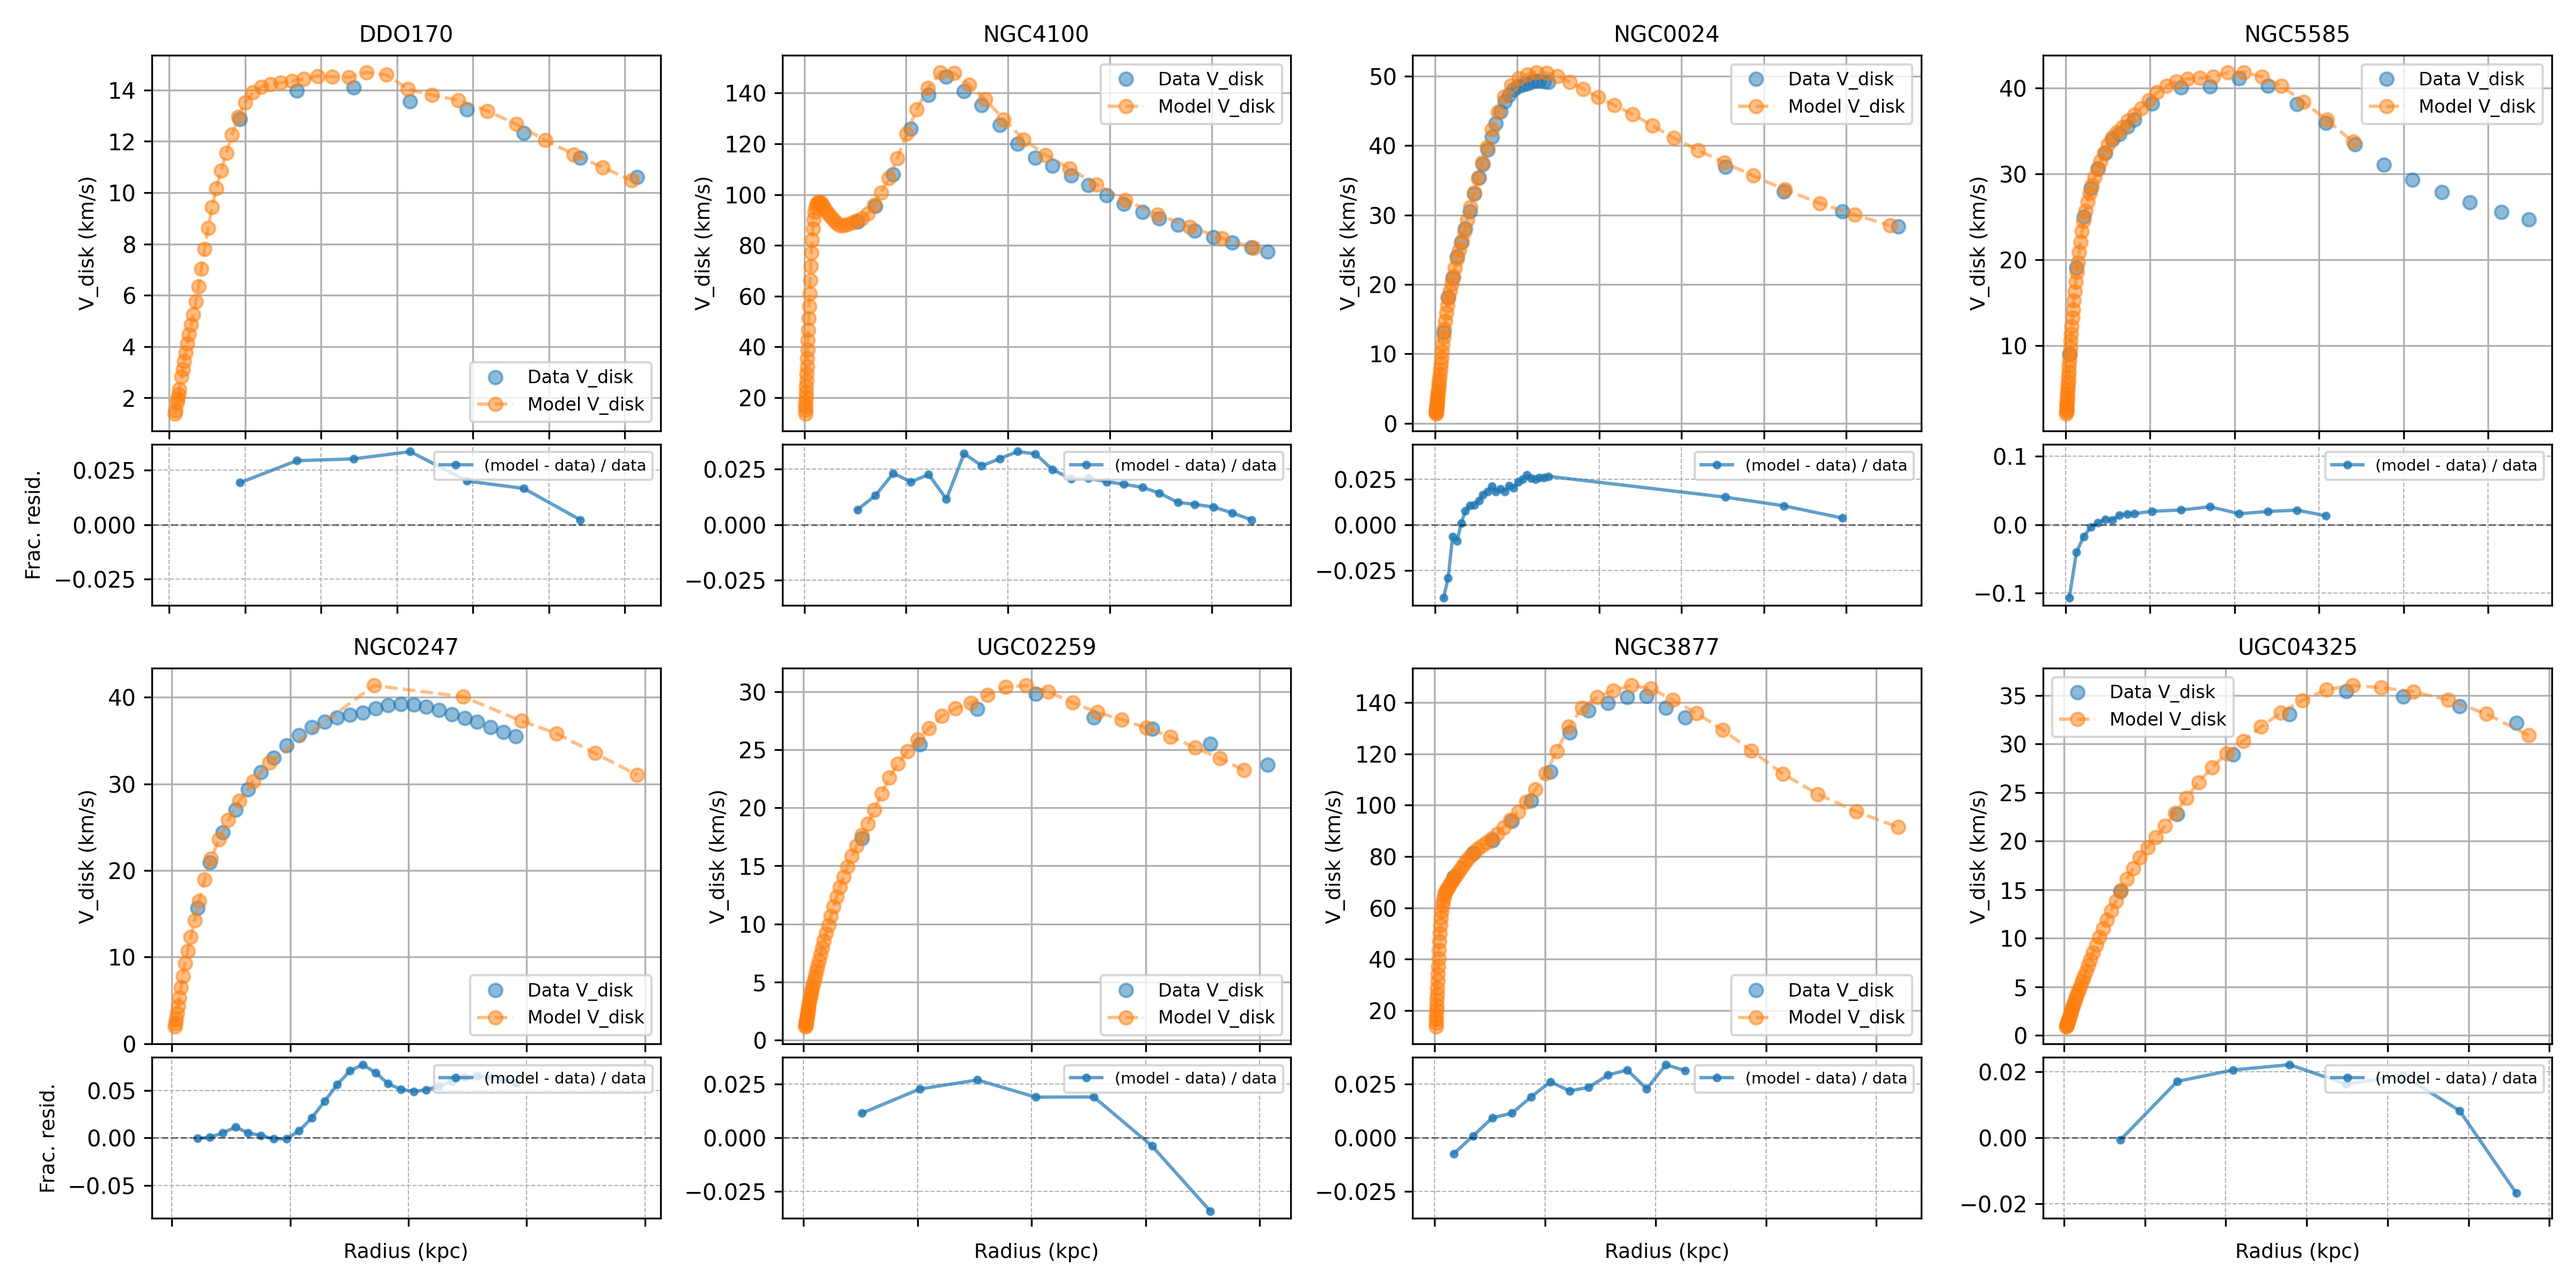
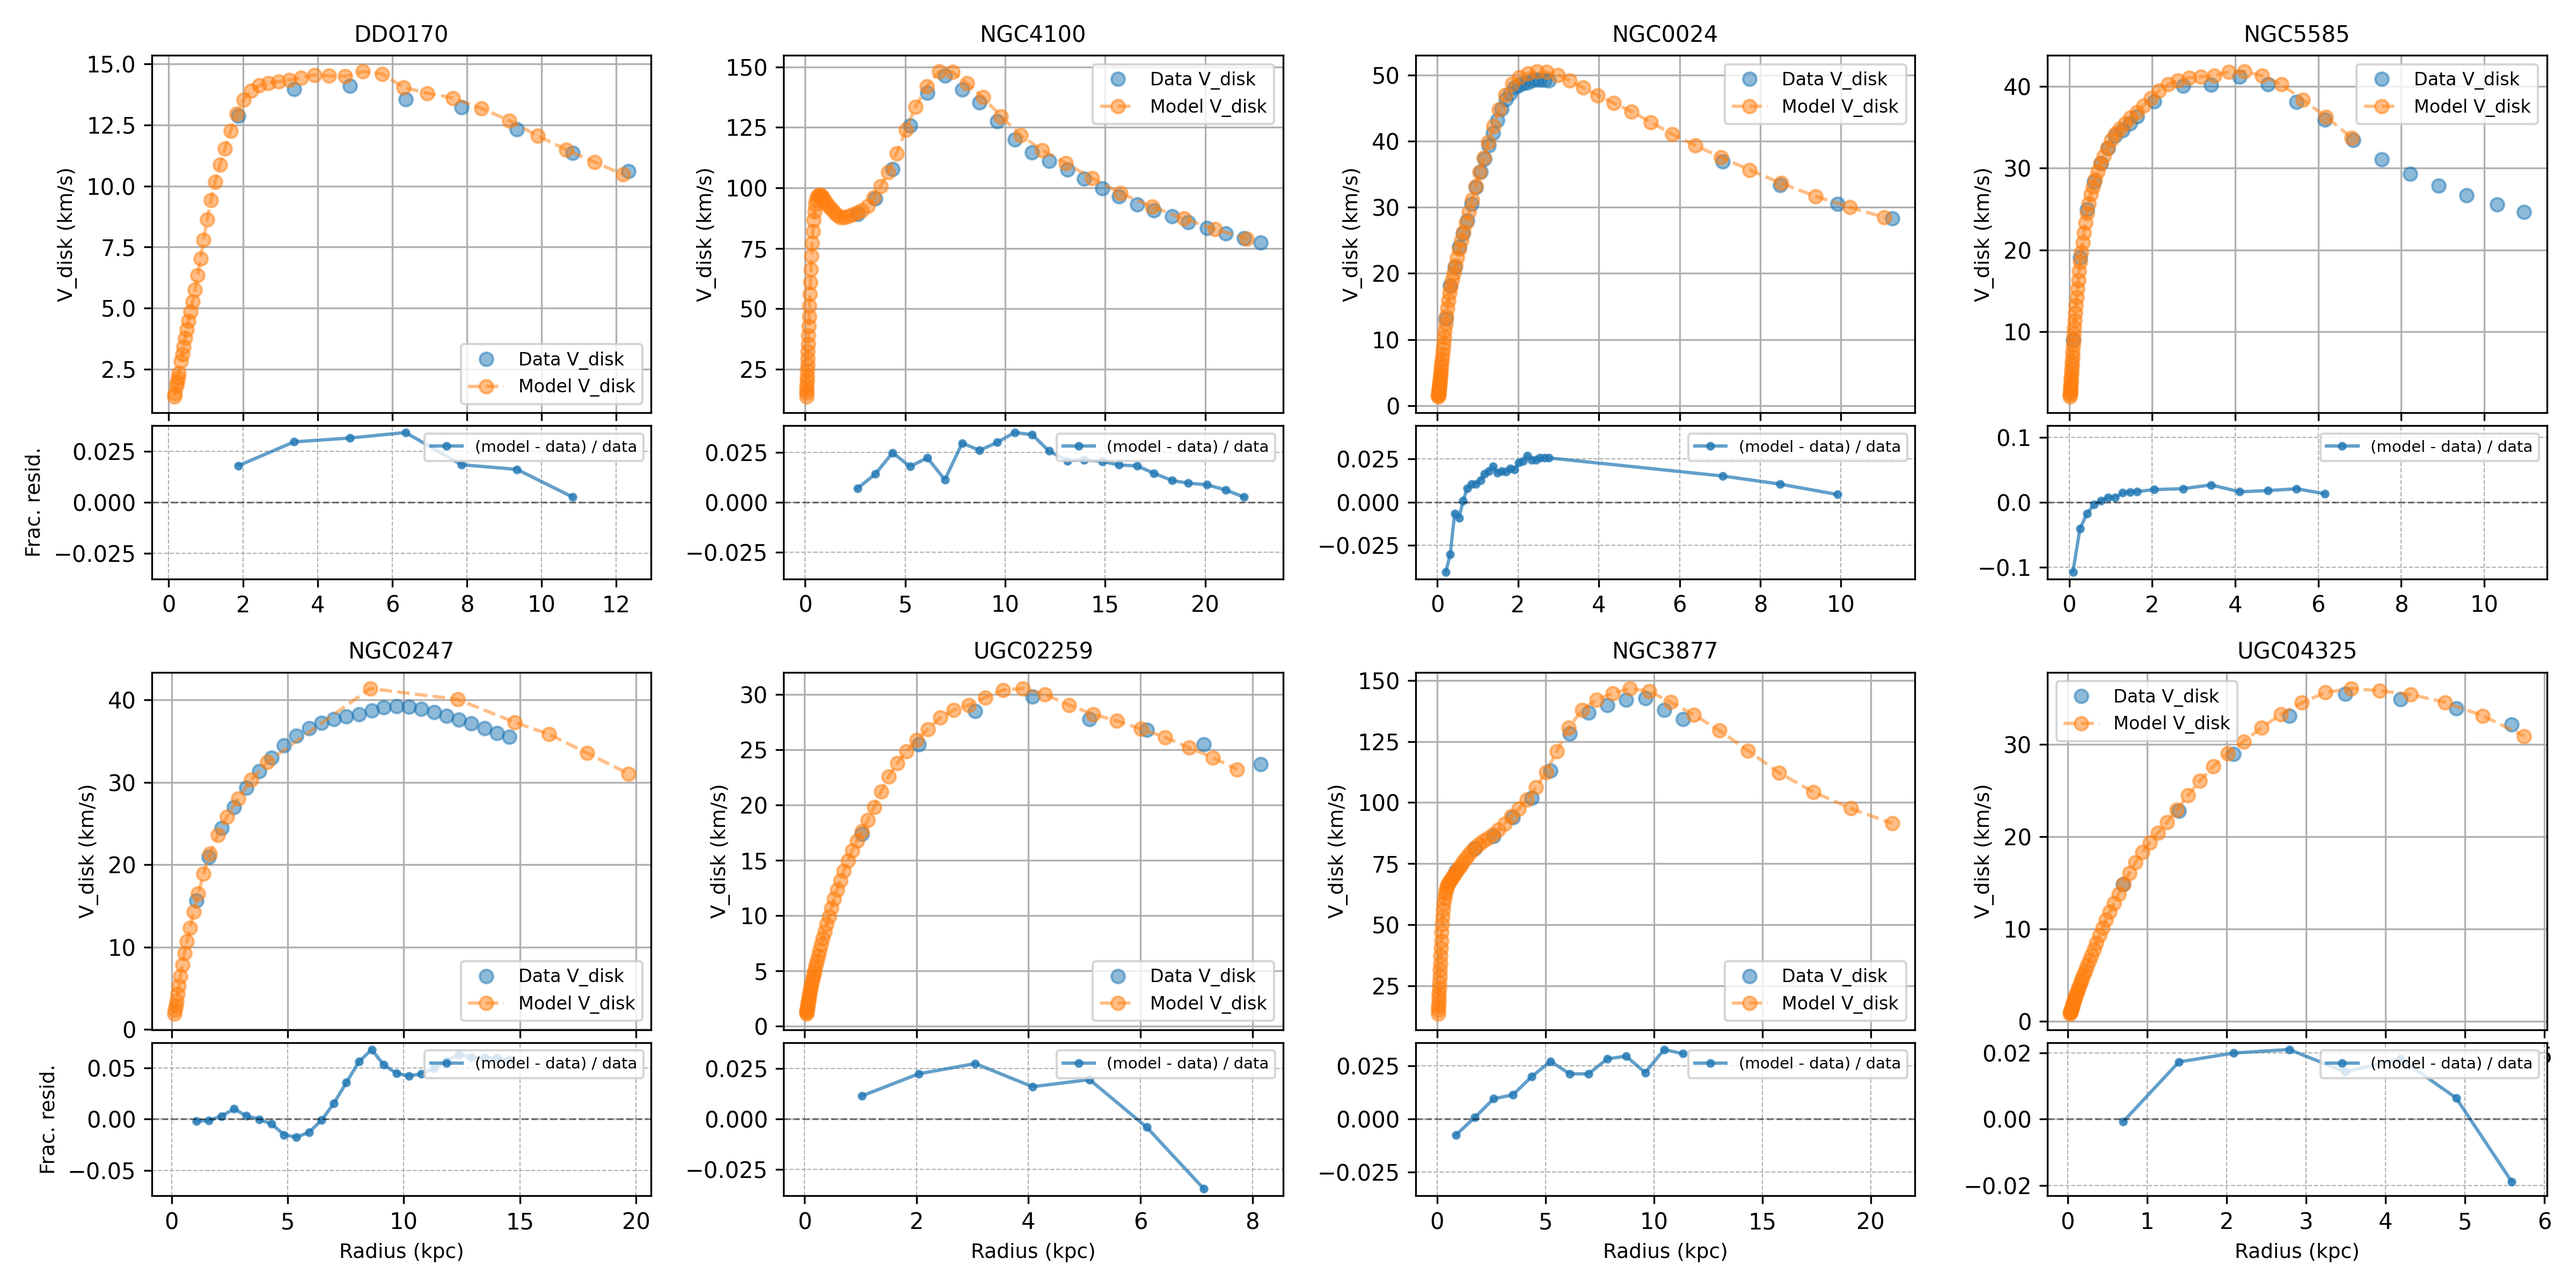
Added radii to x-axes

diff --git a/testing_varML.py b/testing_varML.py
@@ -14,8 +14,6 @@ from utils_analysis.get_SPARC import get_SPARC_data
 from matplotlib import pyplot as plt
 from matplotlib.gridspec import GridSpecFromSubplotSpec
 
-from scipy.interpolate import pchip_interpolate
-
 
 use_dens = True
 fit_const = False
@@ -95,7 +93,7 @@ def fit_multiplicative_constant(rad_model, SB_model, r_data, SB_data):
     sd_mask = sd[mask]
 
     # Interpolate model onto data radii
-    sm_interp = pchip_interpolate(rm, sm, rd_mask)
+    sm_interp = jnp.interp(rd_mask, rm, sm)
 
     # Remove zero model points
     nonzero = sm_interp != 0
@@ -191,7 +189,7 @@ if __name__ == "__main__":
                 x_model = _np.asarray(adjusted_line.get_xdata())
                 y_model = _np.asarray(adjusted_line.get_ydata())
 
-                sm_interp = pchip_interpolate(x_model, y_model, x_data)
+                sm_interp = jnp.interp(x_data, x_model, y_model)
                 nonzero = y_data != 0
                 max_allowed = min(_np.max(x_data), _np.max(x_model))
                 in_range = (x_data >= _np.min(x_model)) & (x_data <= max_allowed)
@@ -199,7 +197,7 @@ if __name__ == "__main__":
 
                 frac = _np.full_like(x_data, _np.nan, dtype=float)
                 if valid.any():
-                    sm_interp_valid = pchip_interpolate(x_model, y_model, x_data[valid])
+                    sm_interp_valid = jnp.interp(x_data[valid], x_model, y_model)
                     frac[valid] = (sm_interp_valid - y_data[valid]) / y_data[valid]
 
                 ax_res.plot(x_data, frac, c="tab:blue", marker="o", ms=3, label="(model - data) / data", alpha=0.7)
@@ -220,7 +218,7 @@ if __name__ == "__main__":
                 ax_res.set_xlabel("Radius (kpc)", fontsize=9)
             if i == 0 or i == 4:
                 ax_res.set_ylabel("Frac. resid.", fontsize=9)
-            ax_main.xaxis.set_ticklabels([])
+            # ax_main.xaxis.set_ticklabels([])
 
         except Exception as e:
             axes0[i].text(0.5, 0.5, f"Error: {gal_i}\n{e}", ha='center', va='center', wrap=True)
@@ -289,7 +287,7 @@ if __name__ == "__main__":
                 y_model = _np.asarray(adjusted_line.get_ydata())
 
                 # interpolate adjusted model onto data radii
-                sm_interp = pchip_interpolate(x_model, y_model, x_data)
+                sm_interp = jnp.interp(x_data, x_model, y_model)
 
                 # fractional residuals (model - data) / data, avoid divide-by-zero
                 nonzero = y_data != 0
@@ -301,7 +299,7 @@ if __name__ == "__main__":
 
                 frac = _np.full_like(x_data, _np.nan, dtype=float)
                 if valid.any():
-                    sm_interp_valid = pchip_interpolate(x_model, y_model, x_data[valid])
+                    sm_interp_valid = jnp.interp(x_data[valid], x_model, y_model)
                     frac[valid] = (sm_interp_valid - y_data[valid]) / y_data[valid]
 
                 ax_res.plot(x_data, frac, c="tab:blue", marker="o", ms=3, label="(model - data) / data", alpha=0.7)
@@ -323,7 +321,7 @@ if __name__ == "__main__":
                 ax_res.set_xlabel("Radius (kpc)", fontsize=9)
             if i == 0 or i == 4:
                 ax_res.set_ylabel("Frac. resid.", fontsize=9)
-            ax_main.xaxis.set_ticklabels([])  # hide x tick labels on the main axis
+            # ax_main.xaxis.set_ticklabels([])  # hide x tick labels on the main axis
 
         except Exception as e:
             axes1[i].text(0.5, 0.5, f"Error: {gal_i}\n{e}", ha='center', va='center', wrap=True)
@@ -383,7 +381,7 @@ if __name__ == "__main__":
                 else: sb_adj_np = _np.asarray(SBdisk_i)
 
                 # Interpolate adjusted model onto data radii
-                sm_interp = pchip_interpolate(rad_np, sb_adj_np, r_np)
+                sm_interp = jnp.interp(r_np, rad_np, sb_adj_np)
                 # Avoid division by zero in data
                 nonzero = data_SB != 0
                 frac = _np.full_like(r_np, _np.nan, dtype=float)
@@ -405,7 +403,7 @@ if __name__ == "__main__":
             ax_res.grid(True, which="both", ls="--", lw=0.5)
 
             # Hide x tick labels on the main axis to avoid overlap
-            ax_main.xaxis.set_ticklabels([])
+            # ax_main.xaxis.set_ticklabels([])
 
         except Exception as e:
             axes2[i].text(0.5, 0.5, f"Error: {gal_i}\n{e}", ha='center', va='center', wrap=True)
